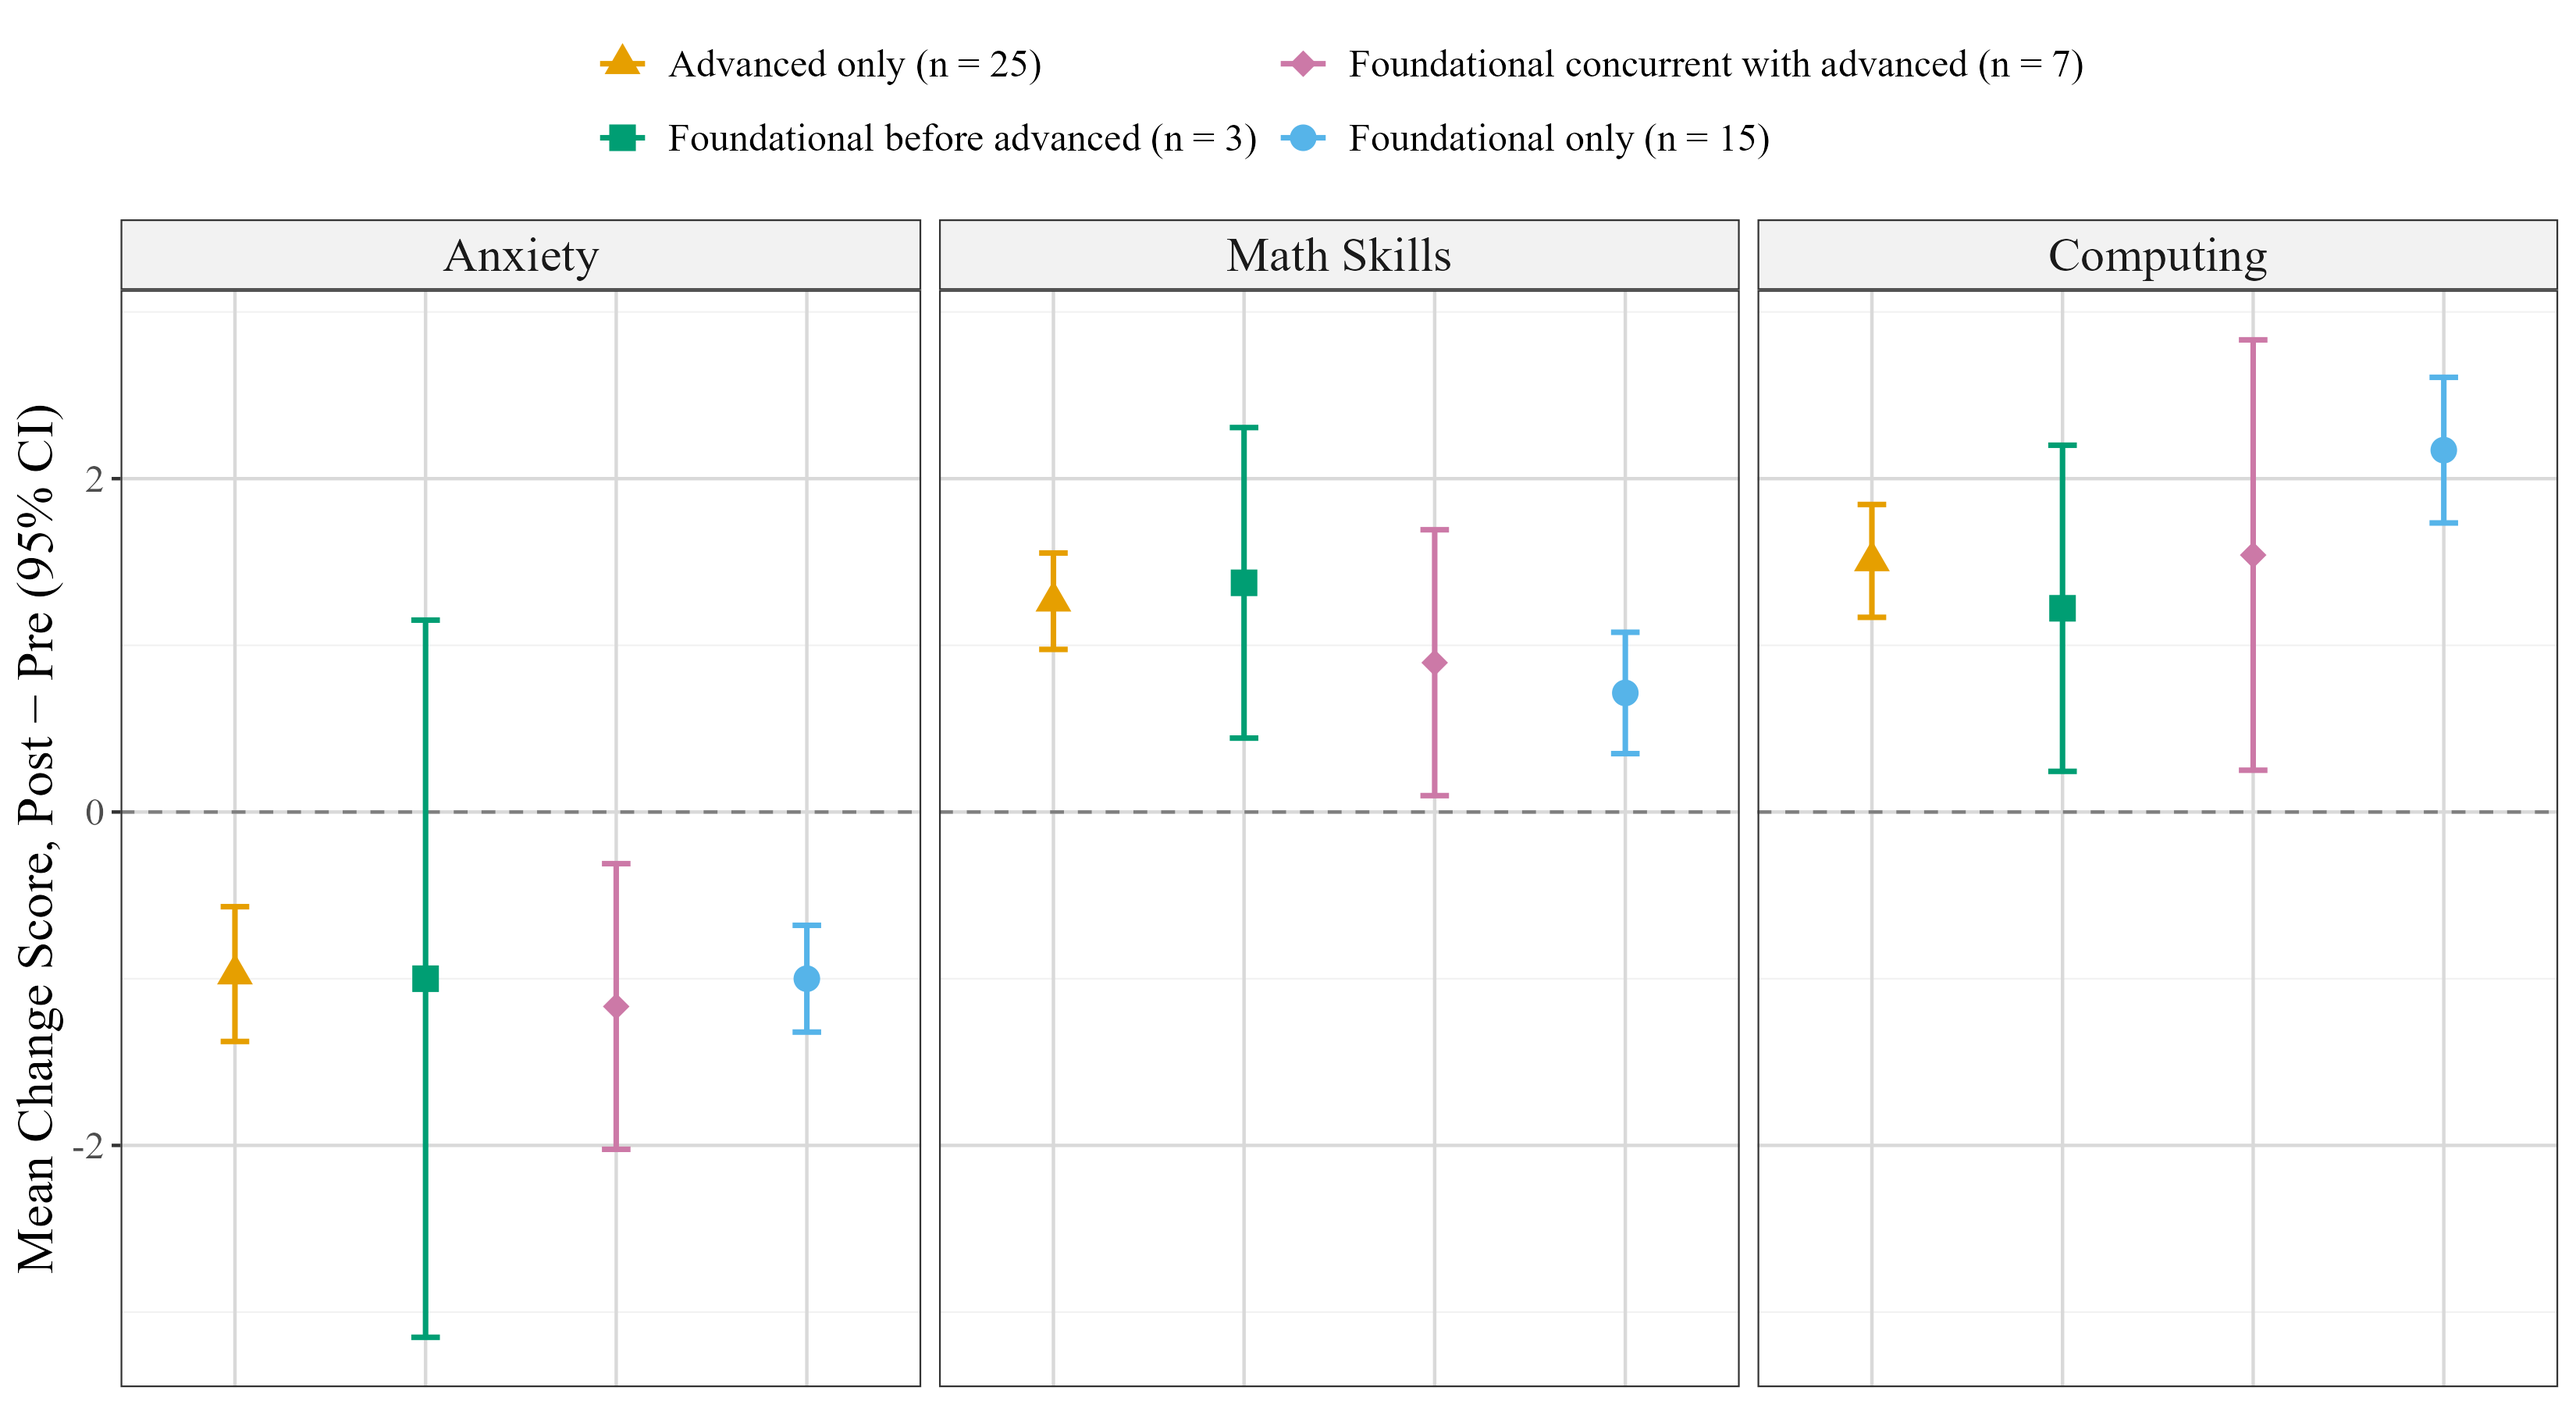
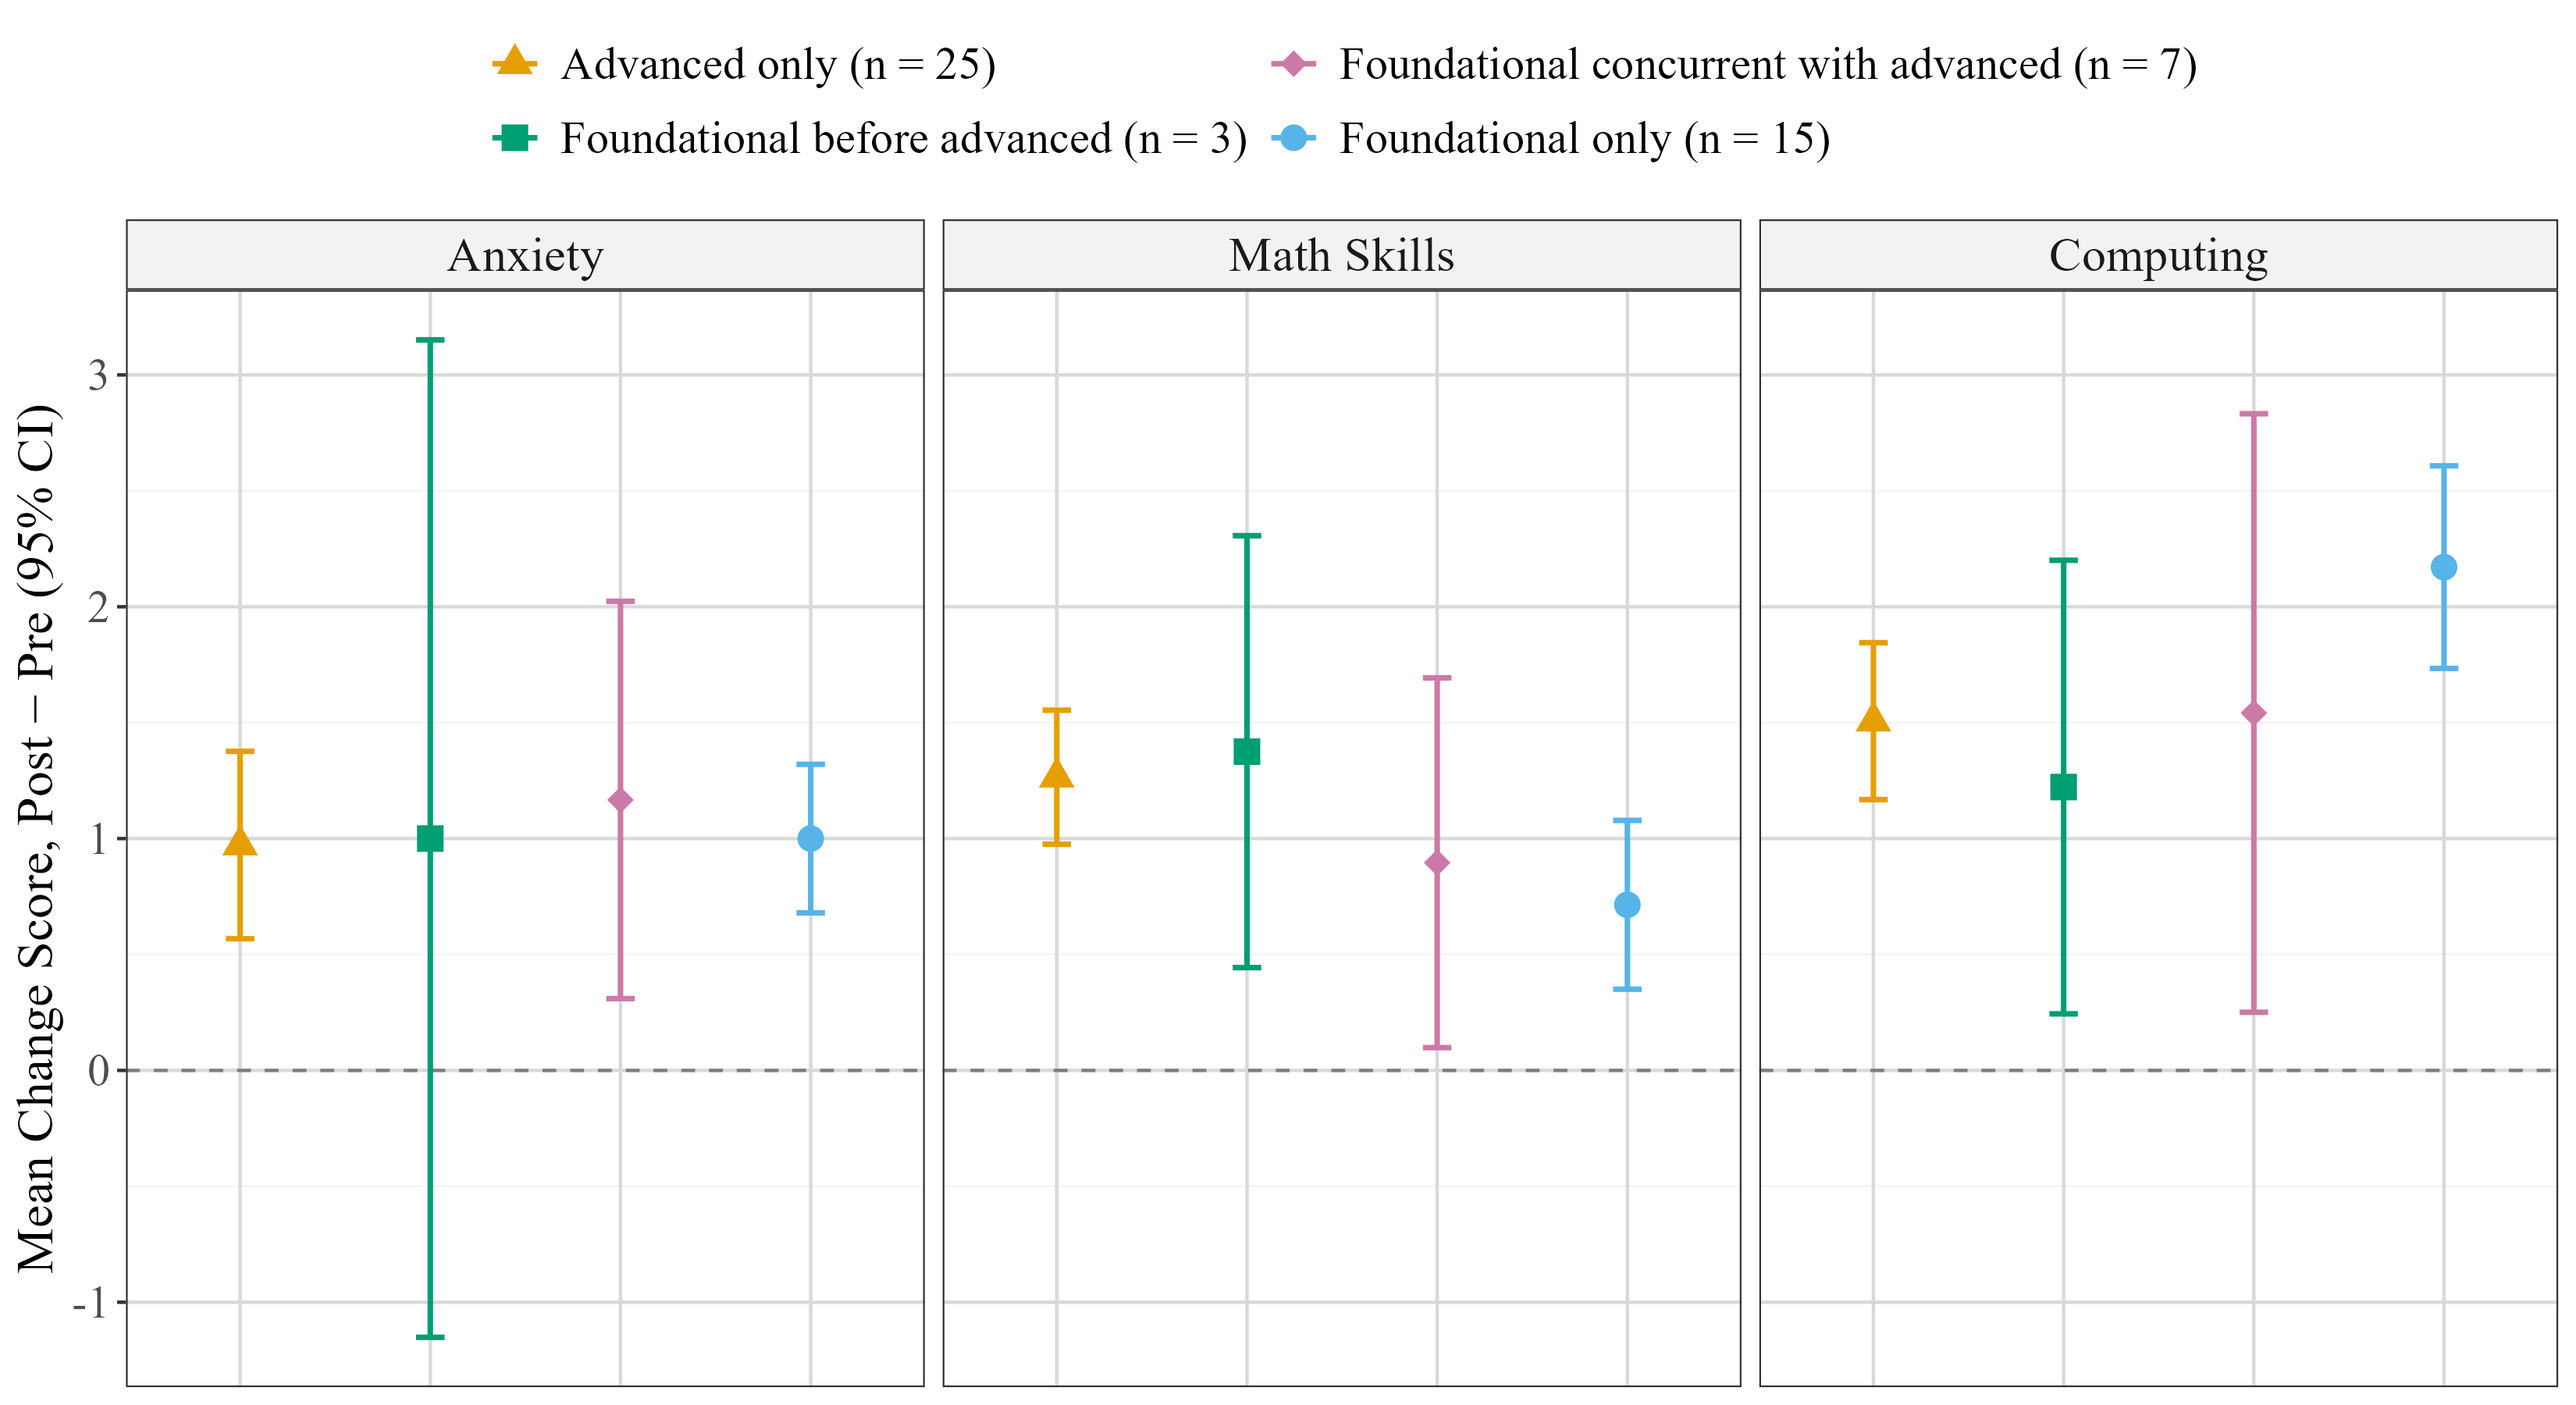
reflect anxiety metric

diff --git a/Figures/Tables/best_model_coefficients.tex b/Figures/Tables/best_model_coefficients.tex
@@ -5,27 +5,27 @@
 \toprule
 \textbf{Metric} & \textbf{Term} & \textbf{$\beta$} & \textbf{SE} & \textbf{t} & \textbf{p} & \textbf{}\\
 \midrule
- & (Intercept) & 3.801 & 0.202 & 18.806 & 0.0000 & ***\\
+ & (Intercept) & 2.199 & 0.202 & 10.880 & 0.0000 & ***\\
 
- & Foundational only & -0.039 & 0.268 & -0.146 & 0.8847 & \\
+ & Foundational only & 0.039 & 0.268 & 0.146 & 0.8847 & \\
 
- & Foundational before advanced & -0.092 & 0.460 & -0.199 & 0.8428 & \\
+ & Foundational before advanced & 0.092 & 0.460 & 0.199 & 0.8428 & \\
 
- & Foundational concurrent with advanced & -0.359 & 0.353 & -1.016 & 0.3131 & \\
+ & Foundational concurrent with advanced & 0.359 & 0.353 & 1.016 & 0.3131 & \\
 
- & Time: post & -0.941 & 0.250 & -3.767 & 0.0003 & ***\\
+ & Time: post & 0.941 & 0.250 & 3.767 & 0.0003 & ***\\
 
- & Advanced math in high school: Yes & -0.450 & 0.194 & -2.314 & 0.0236 & *\\
+ & Advanced math in high school: Yes & 0.450 & 0.194 & 2.314 & 0.0236 & *\\
 
- & Computer savviness (linear trend) & -0.851 & 0.326 & -2.609 & 0.0111 & *\\
+ & Computer savviness (linear trend) & 0.851 & 0.326 & 2.609 & 0.0111 & *\\
 
- & Computer savviness (quadratic trend) & 0.335 & 0.315 & 1.062 & 0.2922 & \\
+ & Computer savviness (quadratic trend) & -0.335 & 0.315 & -1.062 & 0.2922 & \\
 
- & Foundational only:Time: post & -0.059 & 0.372 & -0.158 & 0.8747 & \\
+ & Foundational only:Time: post & 0.059 & 0.372 & 0.158 & 0.8747 & \\
 
- & Foundational before advanced:Time: post & -0.059 & 0.645 & -0.091 & 0.9276 & \\
+ & Foundational before advanced:Time: post & 0.059 & 0.645 & 0.091 & 0.9276 & \\
 
-\multirow[t]{-11}{*}{\raggedright\arraybackslash \em{Anxiety}} & Foundational concurrent with advanced:Time: post & -0.225 & 0.489 & -0.461 & 0.6462 & \\
+\multirow[t]{-11}{*}{\raggedright\arraybackslash \em{Anxiety}} & Foundational concurrent with advanced:Time: post & 0.225 & 0.489 & 0.461 & 0.6462 & \\
 \cmidrule{1-7}
  & (Intercept) & 2.704 & 0.691 & 3.916 & 0.0002 & ***\\
 

diff --git a/Figures/Tables/4group_lm_coefs.tex b/Figures/Tables/4group_lm_coefs.tex
@@ -5,21 +5,21 @@
 \toprule
 \textbf{Metric} & \textbf{Term} & \textbf{$\beta$} & \textbf{95\% CI} & \textbf{t} & \textbf{p} & \textbf{}\\
 \midrule
- & (Intercept) & 3.722 & {}[3.346, 4.098] & 19.405 & 0.0000 & ***\\
+ & (Intercept) & 2.278 & {}[1.902, 2.654] & 11.875 & 0.0000 & ***\\
 
- & Foundational before advanced & -0.222 & {}[-1.217, 0.772] & -0.438 & 0.6628 & \\
+ & Foundational before advanced & 0.222 & {}[-0.772, 1.217] & 0.438 & 0.6628 & \\
 
- & Foundational concurrent with advanced & -0.639 & {}[-1.391, 0.113] & -1.665 & 0.1001 & \\
+ & Foundational concurrent with advanced & 0.639 & {}[-0.113, 1.391] & 1.665 & 0.1001 & \\
 
- & Foundational only & -0.294 & {}[-0.862, 0.275] & -1.013 & 0.3146 & \\
+ & Foundational only & 0.294 & {}[-0.275, 0.862] & 1.013 & 0.3146 & \\
 
- & Timepost & -0.972 & {}[-1.504, -0.441] & -3.584 & 0.0006 & ***\\
+ & Timepost & 0.972 & {}[0.441, 1.504] & 3.584 & 0.0006 & ***\\
 
- & Foundational before advanced $\times$ Post & -0.028 & {}[-1.435, 1.379] & -0.039 & 0.9692 & \\
+ & Foundational before advanced $\times$ Post & 0.028 & {}[-1.379, 1.435] & 0.039 & 0.9692 & \\
 
- & Foundational concurrent with advanced $\times$ Post & -0.194 & {}[-1.258, 0.869] & -0.358 & 0.7211 & \\
+ & Foundational concurrent with advanced $\times$ Post & 0.194 & {}[-0.869, 1.258] & 0.358 & 0.7211 & \\
 
-\multirow[t]{-8}{*}{\raggedright\arraybackslash \em{Anxiety}} & Foundational only $\times$ Post & -0.028 & {}[-0.832, 0.776] & -0.068 & 0.9462 & \\
+\multirow[t]{-8}{*}{\raggedright\arraybackslash \em{Anxiety}} & Foundational only $\times$ Post & 0.028 & {}[-0.776, 0.832] & 0.068 & 0.9462 & \\
 \cmidrule{1-7}
  & (Intercept) & 2.199 & {}[1.86, 2.537] & 12.726 & 0.0000 & ***\\
 

diff --git a/Figures/Tables/covariate_significance_table.tex b/Figures/Tables/covariate_significance_table.tex
@@ -11,25 +11,25 @@
 
  & Gender &  &  & -\\
 
-\multirow[t]{-3}{*}{\raggedright\arraybackslash \em{Demographics}} & Race & - &  & \\
+\multirow[t]{-3}{*}{\raggedright\arraybackslash \em{Demographics}} & Race & + &  & \\
 \cmidrule{1-5}
  & Interest in a computational career &  &  & +\\
 
-\multirow[t]{-2}{*}{\raggedright\arraybackslash \em{Future\_Application}} & R skills helpful for job search & - &  & +\\
+\multirow[t]{-2}{*}{\raggedright\arraybackslash \em{Future\_Application}} & R skills helpful for job search & + &  & +\\
 \cmidrule{1-5}
  & Effort &  &  & \\
 
 \multirow[t]{-2}{*}{\raggedright\arraybackslash \em{Motivation}} & Perseverance &  & - & \\
 \cmidrule{1-5}
- & Advanced math in high school & - &  & \\
+ & Advanced math in high school & + &  & \\
 
-\multirow[t]{-2}{*}{\raggedright\arraybackslash \em{Prior\_Preparation}} & Computer savviness & - & + & +\\
+\multirow[t]{-2}{*}{\raggedright\arraybackslash \em{Prior\_Preparation}} & Computer savviness & + & + & +\\
 \cmidrule{1-5}
  & Computer age &  &  & \\
 
 \multirow[t]{-2}{*}{\raggedright\arraybackslash \em{Resource\_Access}} & Laptop issues &  & + & \\
 \cmidrule{1-5}
- & Help from R documentation & - &  & +\\
+ & Help from R documentation & + &  & +\\
 
  & Help from classmates &  &  & \\
 
